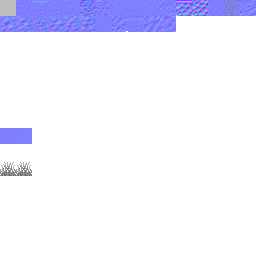
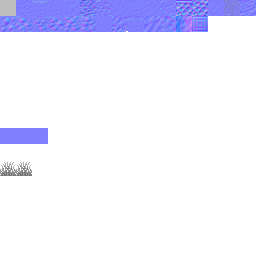
FIX: place index 관련 solt를 x,z로 구분하여 x, z가 같은 경우를 최대한 피함

Changed region(s): [[0.6875, 0.0625, 0.8125, 0.125], [0.125, 0.5, 0.1875, 0.5625]]

diff --git a/voxen/Chunk.cpp b/voxen/Chunk.cpp
@@ -31,7 +31,7 @@ ChunkInitMemory* Chunk::Initialize(ChunkInitMemory* memory)
 
 	// initialize block type of basic block
 	InitBasicBlockType(memory);
-	
+
 	// initalize instance place by seed random
 	InitInstancePlace(memory);
 
@@ -122,21 +122,25 @@ void Chunk::InitBasicBlockType(ChunkInitMemory* memory)
 
 void Chunk::InitInstancePlace(ChunkInitMemory* memory)
 {
-	Terrain::GenerateRandomPlace2D(m_offsetPosition, INSTANCE_PLACE_SOLT, INSTANCE_PLACE_MAX_COUNT,
-		CHUNK_SIZE, memory->instanceRandomPlace2D);
+	Terrain::GenerateRandomPlace2D(m_offsetPosition, INSTANCE_PLACE_RANDOM_SOLT_X,
+		INSTANCE_PLACE_RANDOM_SOLT_Z, INSTANCE_PLACE_MAX_COUNT_PER_CHUNK, CHUNK_SIZE,
+		memory->instanceRandomPlace2D);
 
-	for (int i = 0; i < INSTANCE_PLACE_MAX_COUNT; ++i) {
+	for (int i = 0; i < INSTANCE_PLACE_MAX_COUNT_PER_CHUNK; ++i) {
 		int x = memory->instanceRandomPlace2D[i].first;
 		int z = memory->instanceRandomPlace2D[i].second;
 
 		for (int y = 0; y < CHUNK_SIZE; ++y) {
 			if (CanPlaceAt(x, y, z)) {
 				Instance instance;
+
 				instance.SetTextureIndex(Terrain::GetBlockTextureIndex(BLOCK_SHORT_GRASS));
 				Vector3 instanceWorldPosition =
 					m_offsetPosition + Vector3((float)x + 0.5f, (float)y + 0.5f, (float)z + 0.5f);
 				instance.SetWorldPosition(instanceWorldPosition);
 				m_instanceMap.insert(std::pair(std::make_tuple(x, y, z), instance));
+
+				break;
 			}
 		}
 	}
@@ -147,7 +151,9 @@ bool Chunk::CanPlaceAt(int x, int y, int z)
 	BLOCK_TYPE currentPlaceBlockType = m_blocks[x + 1][y + 1][z + 1].GetType();
 	BLOCK_TYPE placeBottomType = m_blocks[x + 1][y][z + 1].GetType();
 
-	if (Block::IsTransparency(currentPlaceBlockType) && !Block::IsTransparency(placeBottomType))
+	if (Block::IsTransparency(currentPlaceBlockType) &&
+		!Block::IsTransparency(placeBottomType) &&
+		m_instanceMap.find(std::make_tuple(x, y, z)) == m_instanceMap.end())
 	{
 		return true;
 	}

diff --git a/voxen/Terrain.h b/voxen/Terrain.h
@@ -724,6 +724,12 @@ namespace Terrain {
 		case BLOCK_GOLD:
 			return TEXTURE_GOLD;
 
+		case BLOCK_LOG_OAK:
+			if (face == DIR::TOP || face == DIR::BOTTOM)
+				return TEXTURE_LOG_OAK_TOP;
+			else
+				return TEXTURE_LOG_OAK;
+
 		case BLOCK_SHORT_GRASS:
 			return TEXTURE_SHORT_GRASS;
 
@@ -732,17 +738,17 @@ namespace Terrain {
 		}
 	}
 
-	static void GenerateRandomPlace2D(Vector3 worldPosition, uint32_t solt, int maxPlaceCount, int indexCount,
+	static void GenerateRandomPlace2D(Vector3 worldPosition, uint32_t soltX, uint32_t soltZ, int maxPlaceCount, int indexCount,
 		std::vector<std::pair<int, int>>& outRandomPlace2D)
 	{ 
-		uint32_t seedX = (uint32_t)floor(worldPosition.x);
-		uint32_t seedZ = (uint32_t)floor(worldPosition.z);
+		uint32_t seedX = (uint32_t)floor(worldPosition.x) + soltX;
+		uint32_t seedZ = (uint32_t)floor(worldPosition.z) + soltZ;
 
 		uint32_t soltY = (uint32_t)floor(worldPosition.y);
 
 		for (int i = 0; i < maxPlaceCount; ++i) {
-			seedX = HashInt(seedX, solt * soltY);
-			seedZ = HashInt(seedZ, solt * soltY);
+			seedX = HashInt(seedX, soltX * soltY);
+			seedZ = HashInt(seedZ, soltZ * soltY);
 
 			int xIndex = seedX % indexCount;
 			int zIndex = seedZ % indexCount;

diff --git a/voxen/Structure.h b/voxen/Structure.h
@@ -56,8 +56,11 @@ enum BLOCK_TYPE : uint8_t {
 	BLOCK_ICE = 21,
 	BLOCK_GOLD = 22,
 
+	// tree
+	BLOCK_LOG_OAK = 23,
+
 	// instance
-	BLOCK_SHORT_GRASS = 128
+	BLOCK_SHORT_GRASS = 128,
 };
 
 enum TEXTURE_INDEX : uint8_t {
@@ -90,8 +93,12 @@ enum TEXTURE_INDEX : uint8_t {
 	TEXTURE_ICE = 25,
 	TEXTURE_GOLD = 26,
 
+	// tree
+	TEXTURE_LOG_OAK = 27,
+	TEXTURE_LOG_OAK_TOP = 28,
+
 	// instance
-	TEXTURE_SHORT_GRASS = 128
+	TEXTURE_SHORT_GRASS = 129,
 };
 
 enum INSTANCE_TYPE : uint8_t {

diff --git a/voxen/Chunk.h b/voxen/Chunk.h
@@ -25,8 +25,12 @@ public:
 	static const int CHUNK_SIZE_P = CHUNK_SIZE + 2;
 	static const int CHUNK_SIZE_P2 = CHUNK_SIZE_P * CHUNK_SIZE_P;
 
-	static const uint32_t INSTANCE_PLACE_SOLT = 226130351U;
-	static const uint32_t INSTANCE_PLACE_MAX_COUNT = CHUNK_SIZE2 / 4;
+	static const uint32_t TREE_PLACE_RANDOM_SOLT = 763777711U;
+	static const uint32_t TREE_PLACE_MAX_COUNT_PER_CHUNK = CHUNK_SIZE2 / 16;
+
+	static const uint32_t INSTANCE_PLACE_RANDOM_SOLT_X = 405071179U;
+	static const uint32_t INSTANCE_PLACE_RANDOM_SOLT_Z = 397760329U;
+	static const uint32_t INSTANCE_PLACE_MAX_COUNT_PER_CHUNK = CHUNK_SIZE2 / 16;
 
 	Chunk(UINT id);
 	~Chunk();
@@ -169,7 +173,7 @@ struct ChunkInitMemory {
 		  humidityNoises{ { 0, }, },
 		  distributionNoises{ { 0, }, }
 	{
-		instanceRandomPlace2D.reserve(Chunk::INSTANCE_PLACE_MAX_COUNT);
+		instanceRandomPlace2D.reserve(Chunk::INSTANCE_PLACE_MAX_COUNT_PER_CHUNK);
 	}
 
 	void Clear()